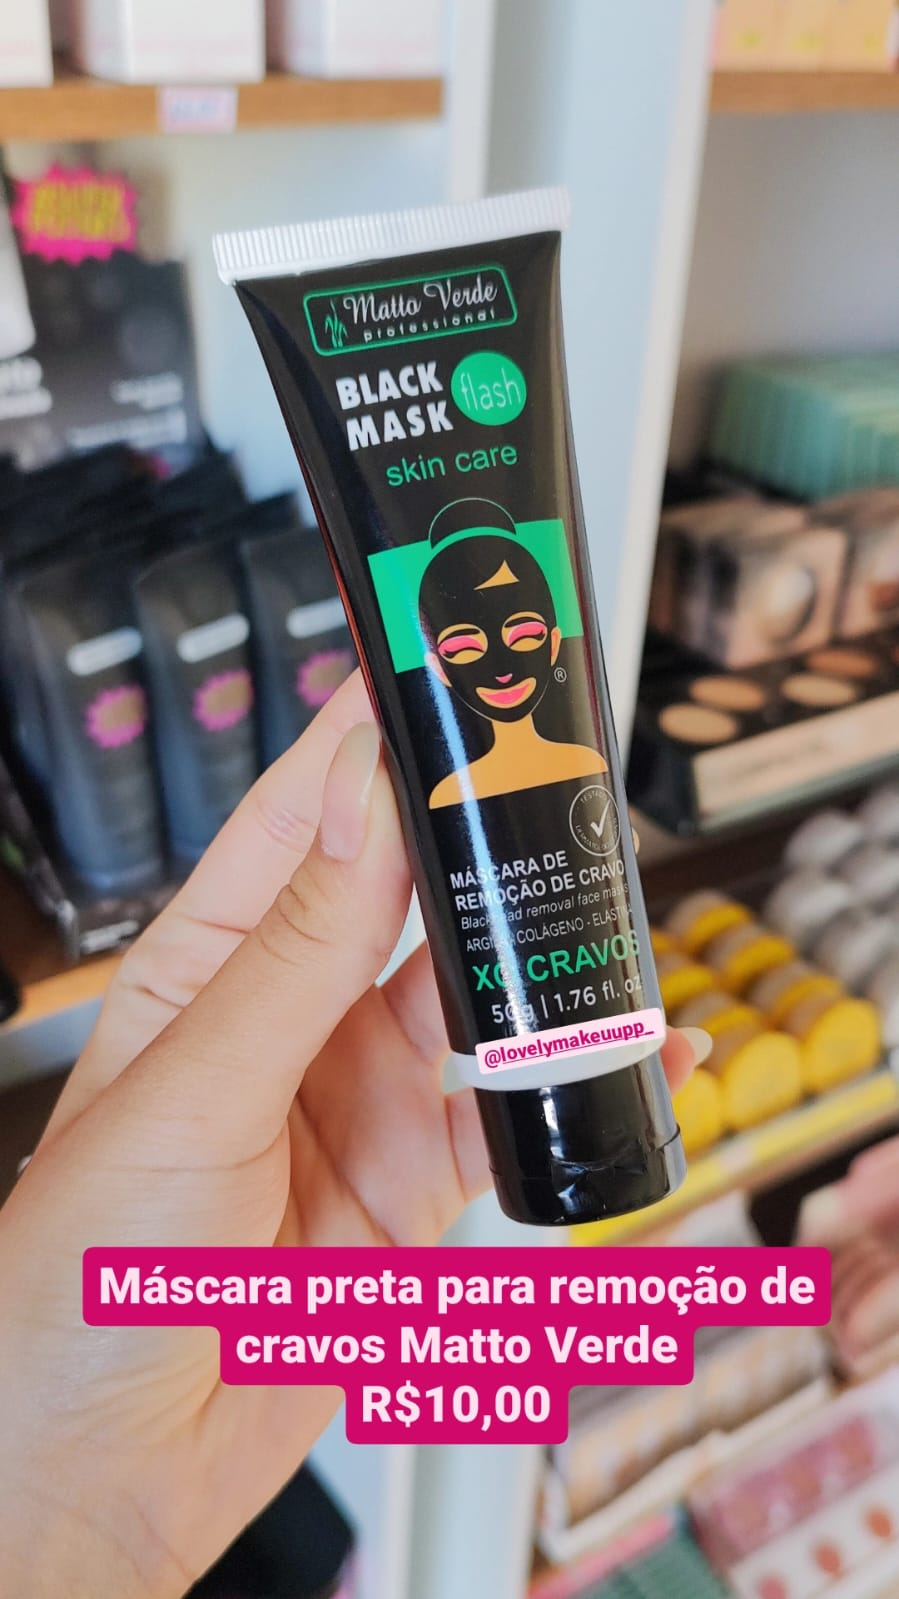
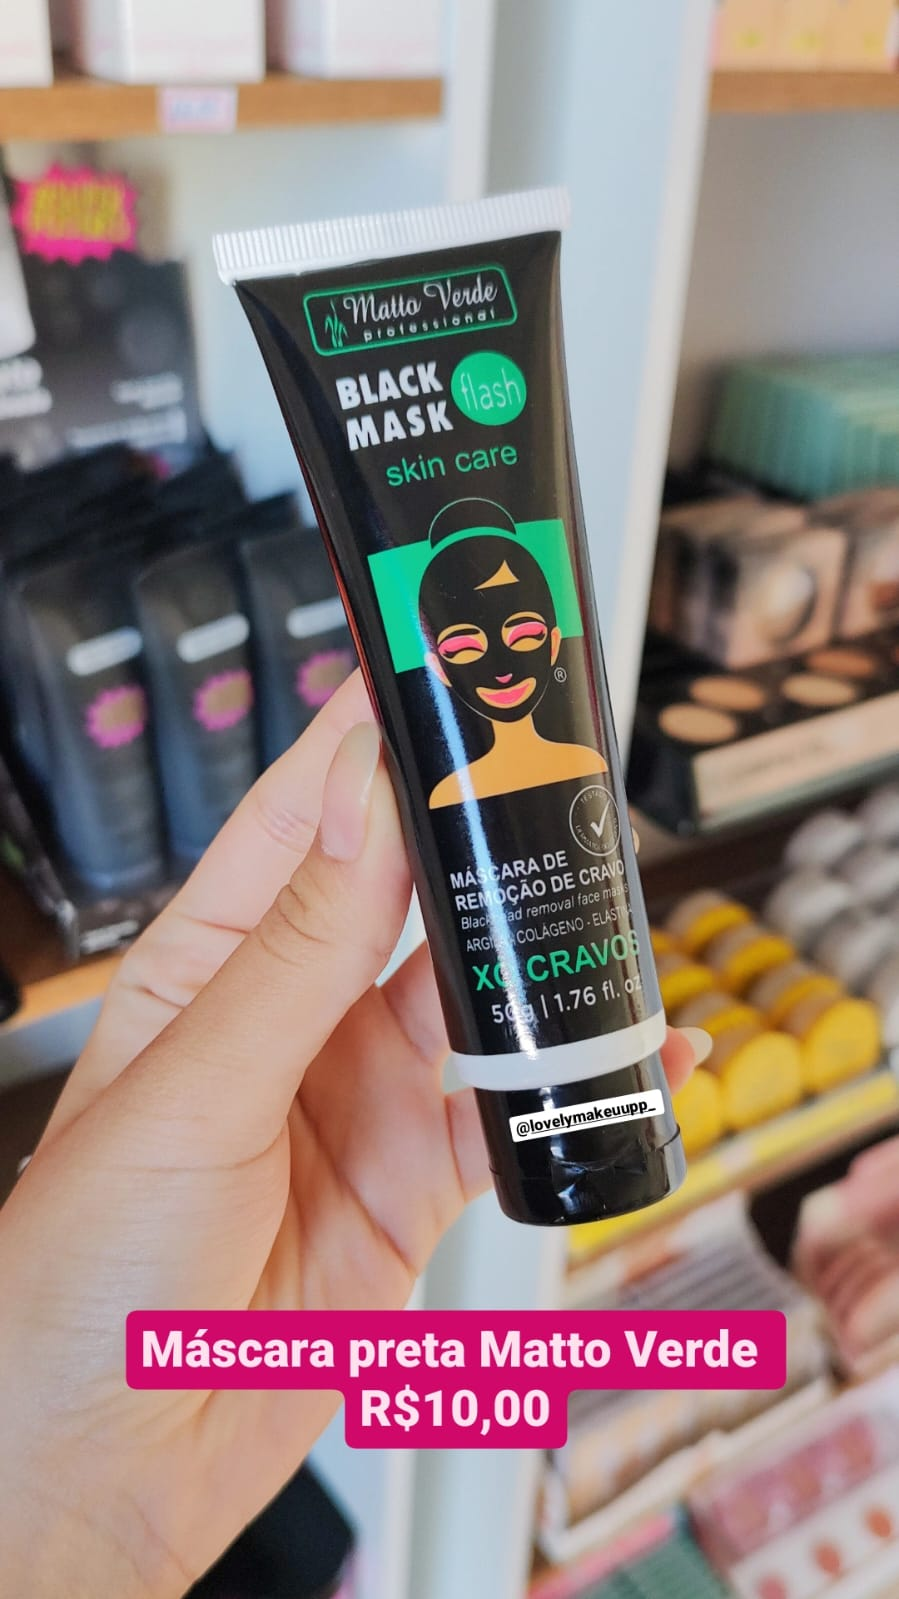
pronto

Changed region(s): [[0.0934, 0.7661, 0.9344, 0.9193], [0.5295, 0.6129, 0.7475, 0.7355]]

diff --git a/Boca.html b/Boca.html
@@ -23,6 +23,26 @@
     <div class="grid">
         <div class="col">
             <div class="col-content">
+                <img src="assets/img/Maquiagens/Boca/gloss guarda chuva.jpeg" alt="Gloss">
+                <h2>Gloss Guarda Chuva</h2>
+                <p class="preco">Preço: R$ 12,00</p>
+                <p class="compra">
+                    <a href="https://api.whatsapp.com/send?phone=5531989704351" target="_blank" class="compra-btn">COMPRAR</a>
+                </p>
+            </div>
+        </div>
+        <div class="col">
+            <div class="col-content">
+                <img src="assets/img/Maquiagens/Boca/batom liquido matte.jpeg" alt="Gloss">
+                <h2>Batom Liquido Matte Vivai</h2>
+                <p class="preco">Preço: R$ 13,00</p>
+                <p class="compra">
+                    <a href="https://api.whatsapp.com/send?phone=5531989704351" target="_blank" class="compra-btn">COMPRAR</a>
+                </p>
+            </div>
+        </div>
+        <div class="col">
+            <div class="col-content">
                 <img src="assets/img/Maquiagens/Boca/Candy balm melancia.jpeg" alt="Gloss">
                 <h2>Candy Balm Melância</h2>
                 <p class="preco">Preço: R$ 12,00</p>
@@ -41,6 +61,7 @@
                 </p>
             </div>
         </div>
+        
         <div class="col">
             <div class="col-content">
                 <img src="assets/img/Maquiagens/Boca/gloss jasmyne 01.jpeg" alt="Gloss">

diff --git a/Olhos.html b/Olhos.html
@@ -43,6 +43,26 @@
         </div> -->
         <div class="col">
             <div class="col-content">
+                <img src="assets/img/Maquiagens/Olhos/cartela de ciclios.jpeg" alt="Paleta de sombras">
+                <h2>Cartela de Cilios</h2>
+                <p class="preco">Preço: R$ 14,00</p>
+                <p class="compra">
+                    <a href="https://api.whatsapp.com/send?phone=5531989704351" target="_blank" class="compra-btn">COMPRAR</a>
+                </p>
+            </div>
+        </div> 
+        <div class="col">
+            <div class="col-content">
+                <img src="assets/img/Maquiagens/Olhos/cola para cilios postiços.jpeg" alt="Paleta de sombras">
+                <h2>Cola de Cilios Macrillan</h2>
+                <p class="preco">Preço: R$ 16,00</p>
+                <p class="compra">
+                    <a href="https://api.whatsapp.com/send?phone=5531989704351" target="_blank" class="compra-btn">COMPRAR</a>
+                </p>
+            </div>
+        </div> 
+        <div class="col">
+            <div class="col-content">
                 <img src="assets/img/Maquiagens/Olhos/máscara de cilios tango 2em1.jpeg" alt="Paleta de sombras">
                 <h2>Máscara de Cílios 2em1 Tango</h2>
                 <p class="preco">Preço: R$ 16,00</p>

diff --git a/Mascaras.html b/Mascaras.html
@@ -21,12 +21,22 @@
         </ul>
     </nav>
     <div class="grid">
-        <!-- Se não houver produtos -->
+        <!-- Se não houver produtos 
         <div class="sem-produtos">
             <img src="assets/img/esgotado.jpg" alt="Sem Produtos">
             <h2>Não há produtos disponíveis no momento.</h2>
             <p>Confira novamente em breve ou entre em contato conosco para obter informações adicionais.</p>
-        </div> 
+        </div>  -->
+        <div class="col">
+            <div class="col-content">
+                <img src="assets/img/Maquiagens/Mascara/Mascara preta.jpeg" alt="Corretivo Jasmyne">
+                <h2>Mascara Preta Matto Verde</h2>
+                <p class="preco">Preço: R$ 10,00</p>
+                <p class="compra">
+                    <a href="https://api.whatsapp.com/send?phone=5531989704351" target="_blank" class="compra-btn">COMPRAR</a>
+                </p>
+            </div>
+        </div>
     </div>
     <footer class="rodape">
         <div class="info">

diff --git a/Sobrancelhas.html b/Sobrancelhas.html
@@ -41,6 +41,16 @@
         </div>
         <div class="col">
             <div class="col-content">
+                <img src="assets/img/Maquiagens/Sobrancelhas/mascara serum para cilios.jpeg" alt="sombras">
+                <h2>Mascara Sérum para Cilios</h2>
+                <p class="preco">Preço: R$ 20,00</p>
+                <p class="compra">
+                    <a href="https://api.whatsapp.com/send?phone=5531989704351" target="_blank" class="compra-btn">COMPRAR</a>
+                </p>
+            </div>
+        </div>
+        <div class="col">
+            <div class="col-content">
                 <img src="assets/img/Maquiagens/Sobrancelhas/mascara incolor para cilios.jpeg" alt="sombras">
                 <h2>Máscara Incolor para Cílios e Sobrancelhas</h2>
                 <p class="preco">Preço: R$ 14,00</p>

diff --git a/Iluminador.html b/Iluminador.html
@@ -23,6 +23,16 @@
     <div class="grid">
         <div class="col">
             <div class="col-content">
+                <img src="assets/img/Maquiagens/Iluminador/duo de Iluminadores.jpeg" alt="Iluminador Max Love">
+                <h2>Duo Iluminador</h2>
+                <p class="preco">Preço: R$ 15,00</p>
+                <p class="compra">
+                    <a href="https://api.whatsapp.com/send?phone=5531989704351" target="_blank" class="compra-btn">COMPRAR</a>
+                </p>
+            </div>
+        </div>
+        <div class="col">
+            <div class="col-content">
                 <img src="assets/img/Maquiagens/Iluminador/Iluminador belle angel.jpeg" alt="Iluminador Max Love">
                 <h2>Iluminador Belle Angel</h2>
                 <p class="preco">Preço: R$ 14,00</p>

diff --git a/Esfoliante.html b/Esfoliante.html
@@ -23,6 +23,16 @@
     <div class="grid">
         <div class="col">
             <div class="col-content">
+                <img src="assets/img/Maquiagens/Esfoliante/esfoliante acido salicilico.jpeg" alt="Esfoliante">
+                <h2>Esfoliante Ácido Salicilico</h2>
+                <p class="preco">Preço: R$ 16,00</p>
+                <p class="compra">
+                    <a href="https://api.whatsapp.com/send?phone=5531989704351" target="_blank" class="compra-btn">COMPRAR</a>
+                </p>
+            </div>
+        </div>
+        <div class="col">
+            <div class="col-content">
                 <img src="assets/img/Maquiagens/Esfoliante/esfoliante melancia.jpeg" alt="Esfoliante">
                 <h2>Esfoliante Melância</h2>
                 <p class="preco">Preço: R$ 18,00</p>

diff --git a/Hidratante.html b/Hidratante.html
@@ -40,6 +40,16 @@
         </div>
         <div class="col">
             <div class="col-content">
+                <img src="assets/img/Maquiagens/Hidratante/gel hidratante acido.jpeg" alt="sombras">
+                <h2>Hidratante Ácido Salicilico</h2>
+                <p class="preco">Preço: R$ 16,00</p>
+                <p class="compra">
+                    <a href="https://api.whatsapp.com/send?phone=5531989704351" target="_blank" class="compra-btn">COMPRAR</a>
+                </p>
+            </div>
+        </div>
+        <div class="col">
+            <div class="col-content">
                 <img src="assets/img/Maquiagens/Hidratante/gel facual efeito blindagem.jpeg" alt="sombras">
                 <h2>Gel Facial Efeito Blindagem</h2>
                 <p class="preco">Preço: R$ 15,00</p>

diff --git a/Pinceis.html b/Pinceis.html
@@ -31,6 +31,16 @@
                 </p>
             </div>
         </div>
+        <div class="col">
+            <div class="col-content">
+                <img src="assets/img/Maquiagens/Pincéis/kit mini pinceis.jpeg" alt="Pincel Para Maquiagem Miss Frandy">
+                <h2>Kit Mini Pinceis</h2>
+                <p class="preco">Preço: R$ 16,00</p>
+                <p class="compra">
+                    <a href="https://api.whatsapp.com/send?phone=5531989704351" target="_blank" class="compra-btn">COMPRAR</a>
+                </p>
+            </div>
+        </div>
     </div>
     <footer class="rodape">
         <div class="info">

diff --git a/Corretivo.html b/Corretivo.html
@@ -31,6 +31,16 @@
                 </p>
             </div>
         </div>
+        <div class="col">
+            <div class="col-content">
+                <img src="assets/img/Maquiagens/Corretivo/corretivo flawless.jpeg" alt="Corretivo Jasmyne">
+                <h2>Corretivo Flawless</h2>
+                <p class="preco">Preço: R$ 18,00</p>
+                <p class="compra">
+                    <a href="https://api.whatsapp.com/send?phone=5531989704351" target="_blank" class="compra-btn">COMPRAR</a>
+                </p>
+            </div>
+        </div>
     </div>
     <footer class="rodape">
         <div class="info">
